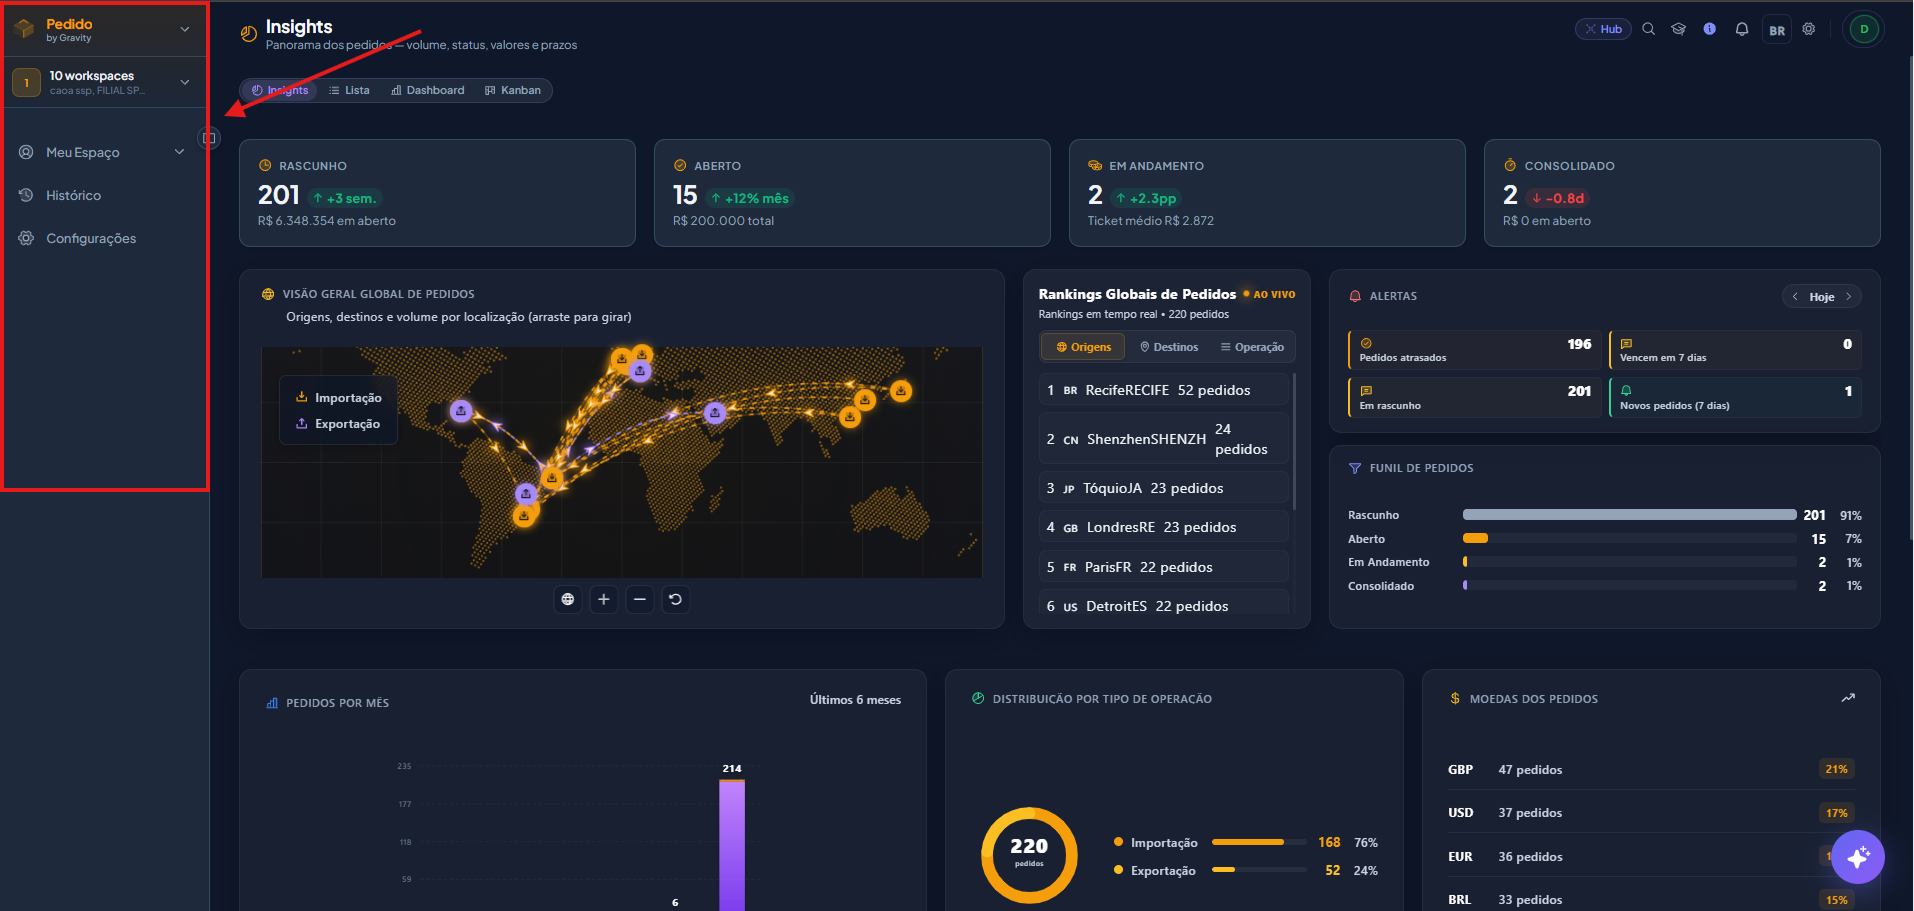
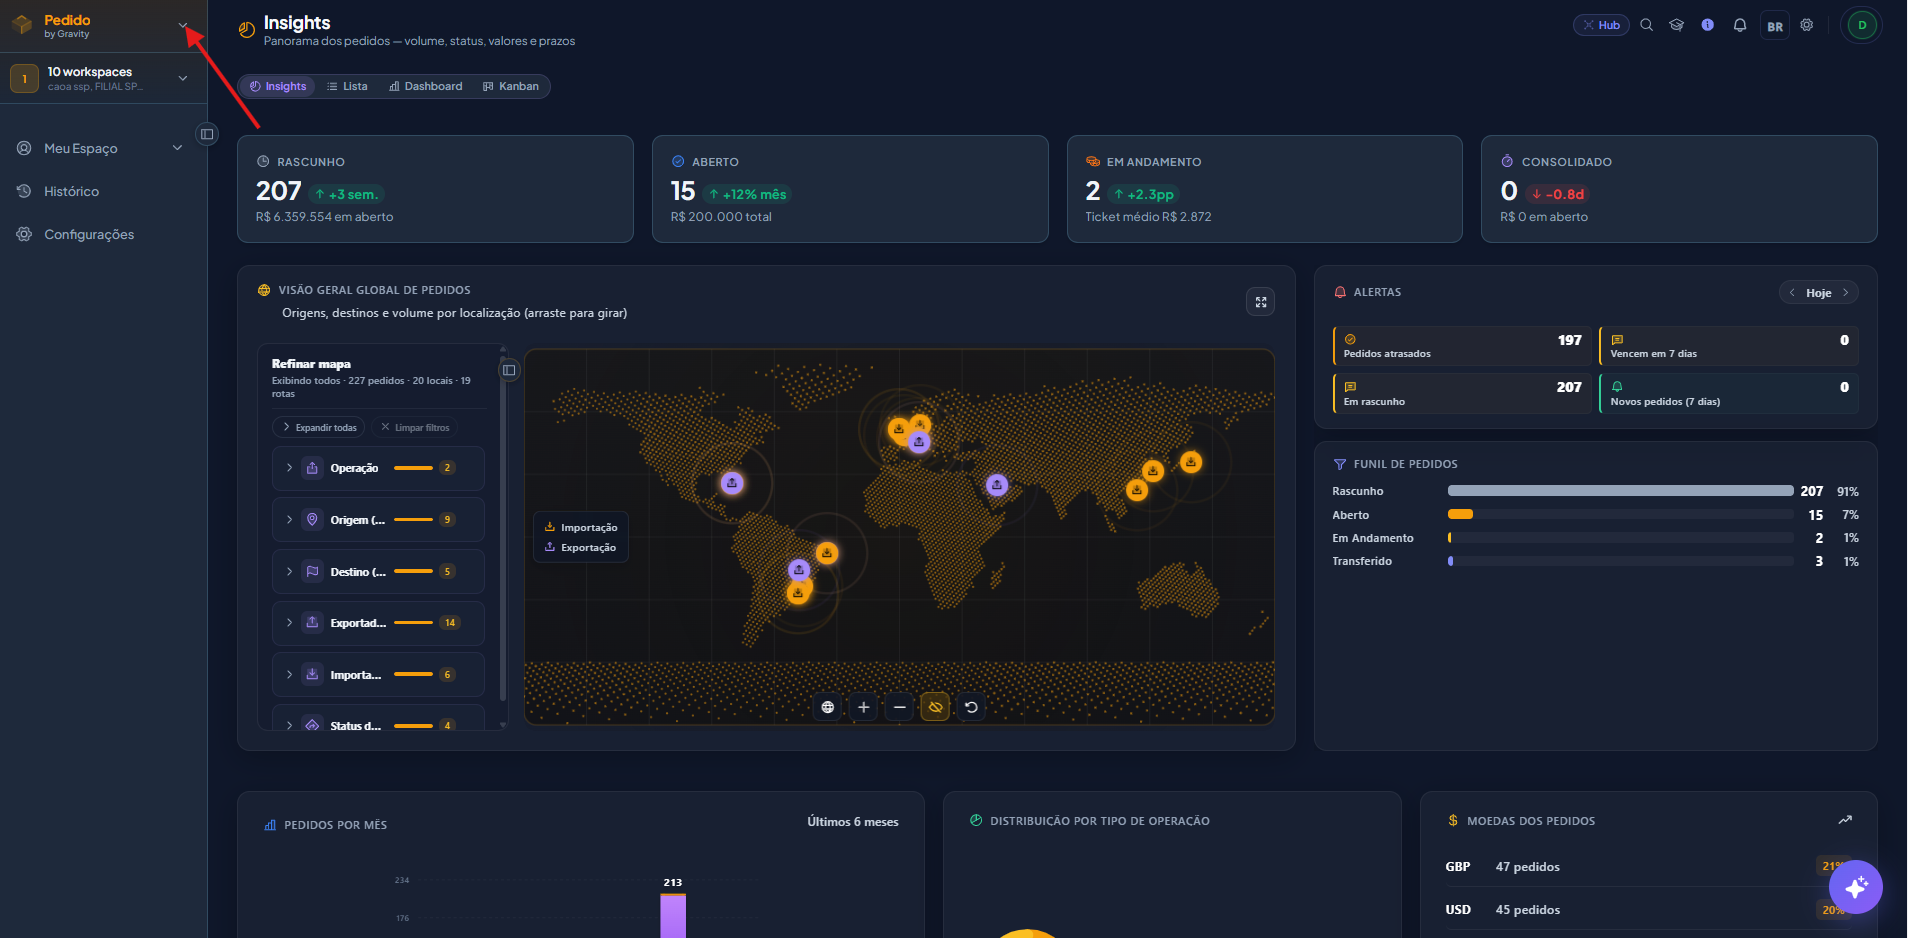
fix(guia-gravity): remove dicas Navegacao e atualiza prints menu lateral

diff --git a/servicos-global/configurador/src/pages/university/manual-navegacao-conteudo.ts b/servicos-global/configurador/src/pages/university/manual-navegacao-conteudo.ts
@@ -229,11 +229,6 @@ export const DOC_NAVEGACAO_SECAO: DocSecao = {
       paragrafos: [
         'Assim que você **acessa a plataforma pelo Hub** (tela principal após o login), o **menu superior** passa a acompanhar **todas** as telas autenticadas — Hub, produtos, Gravity Store, Configurador e Gravity University. **Não importa** qual módulo você abra: a faixa do topo é sempre a mesma, com os **mesmos ícones e na mesma ordem**.',
       ],
-      callout: {
-        tipo: 'dica',
-        texto: 'É o principal ponto de retorno ao **Hub**, de acesso à **conta**, troca de **idioma** e demais atalhos transversais da plataforma.',
-      },
-      calloutAposPassos: true,
       mostrarInfograficoIconesMenuSuperior: true,
       passosVisuais: [],
     },
@@ -244,11 +239,6 @@ export const DOC_NAVEGACAO_SECAO: DocSecao = {
       paragrafos: [
         'Todos os **Produtos Gravity** — Pedido, Smart Read, BID Frete, BID Câmbio e demais — possuem **menu lateral** para o usuário navegar entre **produtos**, entre **workspaces**, além de acessar **configuração** e **histórico**.',
       ],
-      callout: {
-        tipo: 'dica',
-        texto: 'Enquanto você está no **Hub** ou na **Gravity Store**, a tela usa **apenas o menu superior** — **não há menu lateral**.',
-      },
-      calloutAposPassos: true,
       figurasAposParagrafo: [
         {
           indice: 0,

diff --git a/servicos-global/configurador/src/pages/university/manual-figura-screenshot.tsx b/servicos-global/configurador/src/pages/university/manual-figura-screenshot.tsx
@@ -14,7 +14,7 @@ const ESTILO_BOTAO_AMPLIAR: React.CSSProperties = {
 /** Acima do MenuLateralGlobal / shell University (evita sidebar transparente por cima do Ampliar). */
 const Z_INDEX_AMPLIAR_TELA_CHEIA = 200000
 
-const MANUAL_SCREENSHOT_CACHE_KEY = '197'
+const MANUAL_SCREENSHOT_CACHE_KEY = '198'
 
 function urlScreenshotManual(src: string): string {
   const sep = src.includes('?') ? '&' : '?'
